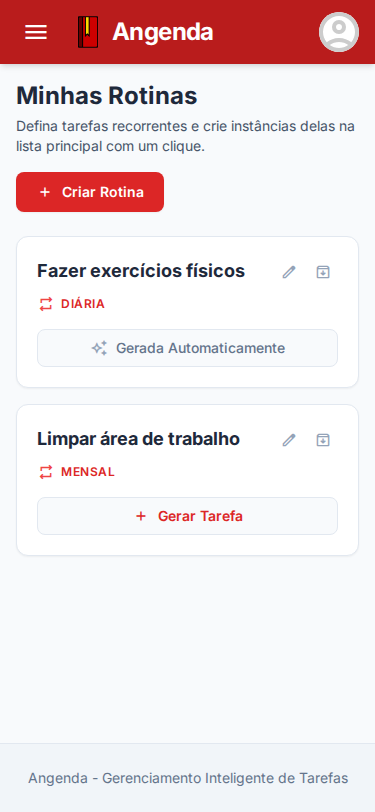
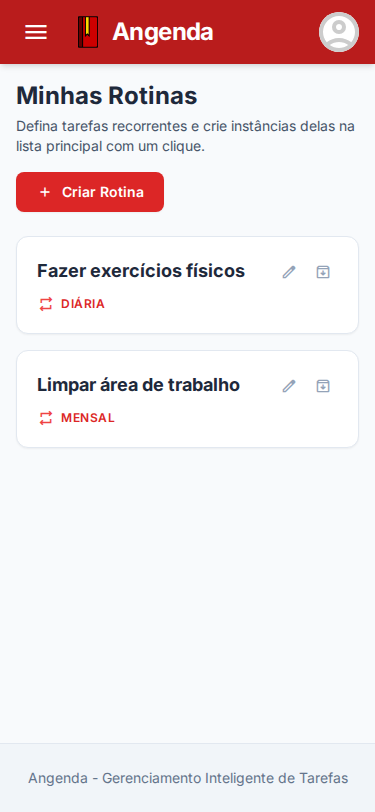
refactor: remover botão de geração de tarefa da visualização de rotinas

diff --git a/testes/páginas.js b/testes/páginas.js
@@ -57,10 +57,6 @@ test('Populate data and generate screenshots for all screens', async ({ page }) 
   await page.click('button[type="submit"]');
   await page.waitForTimeout(200);
 
-  // Generate a task from the routine
-  await page.click('button:has-text("Gerar Tarefa")');
-  await page.waitForTimeout(200);
-
   // Step 3: Navigate to Planos and create a plan
   console.log('Navigating to /planos to pre-populate plans...');
   await page.goto('/planos');

diff --git a/README.md b/README.md
@@ -17,7 +17,6 @@ O aplicativo conta com três visualizações principais totalmente integradas:
 
 2. **/rotinas (Gerenciamento de Hábitos e Repetições)**
    - Permite cadastrar tarefas recorrentes com configurações personalizadas de repetição (**Diária**, **Semanal** ou **Mensal**).
-   - Com um único clique em **"Gerar Tarefa"**, uma nova instância daquela rotina é enviada diretamente para a lista principal de tarefas.
 
 3. **/planos (Gerenciamento de Projetos e Objetivos)**
    - Permite organizar sequências estruturadas de tarefas direcionadas a alcançar um objetivo maior.
